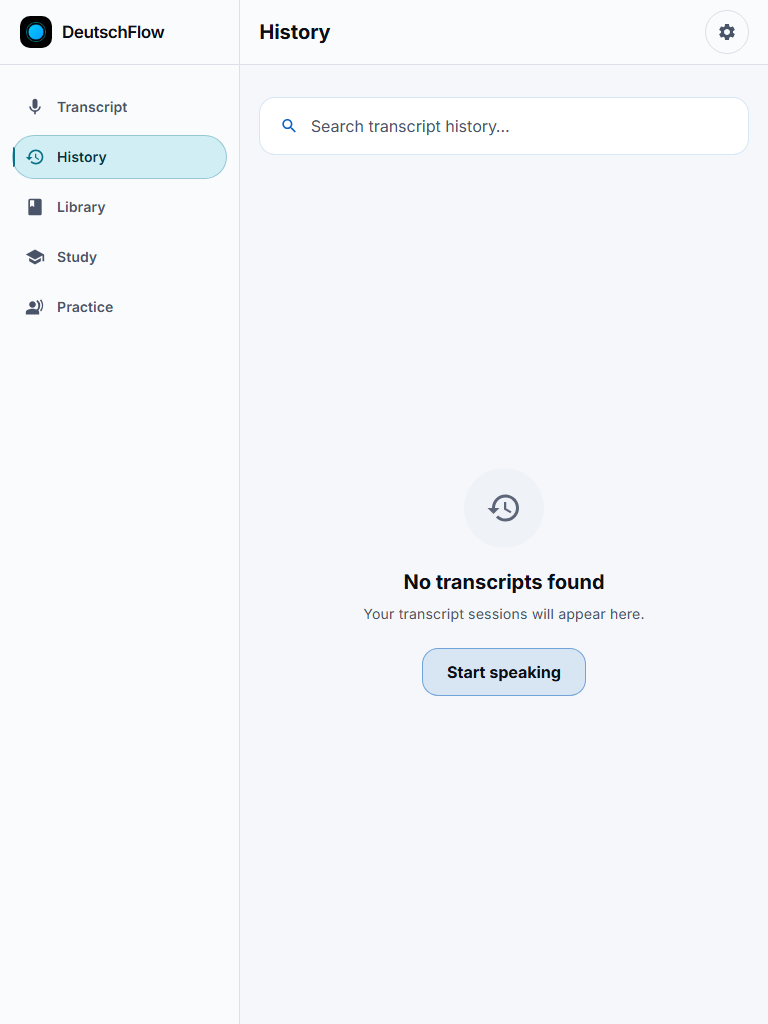
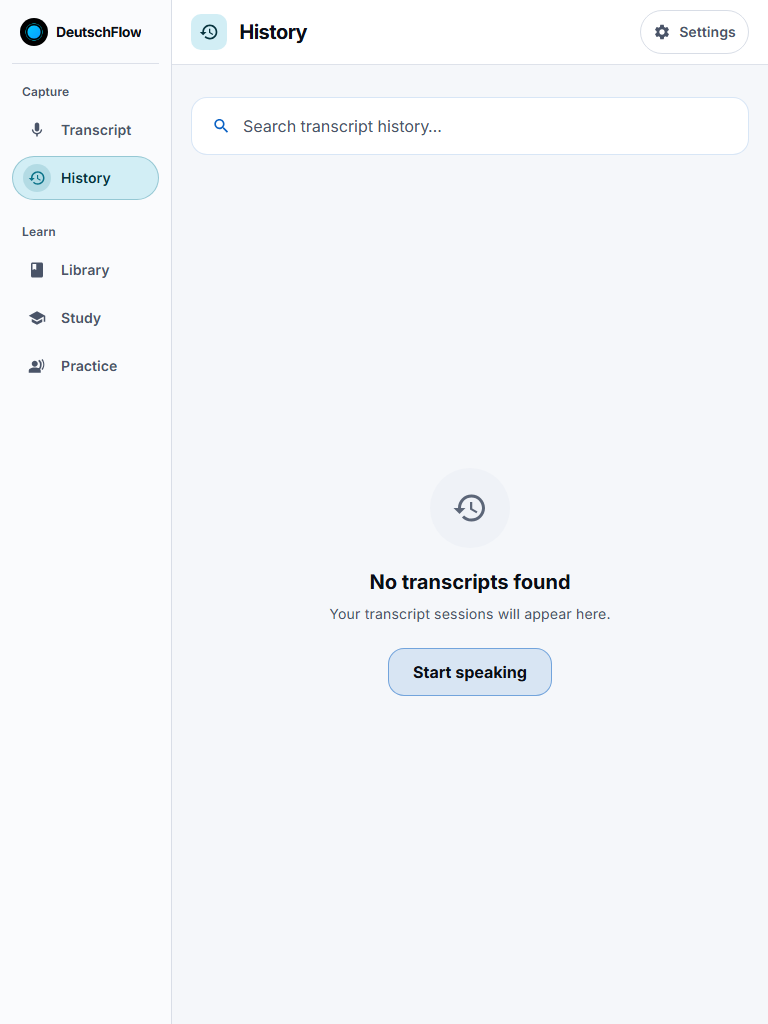
Refine the web sidebar and page header

diff --git a/web/src/components/layout/AppShell.tsx b/web/src/components/layout/AppShell.tsx
@@ -107,43 +107,6 @@ export function AppShell({ children }: { children: ReactNode }) {
           {t("db.upgradeBlocked")}
         </p>
       )}
-      {/* Top bar — full-width, like the Android bar: a transparent bar lets
-          content scroll straight through the title. */}
-      <header className="sticky top-0 z-30 border-b border-outline-variant/55 bg-surface-container-low pt-[env(safe-area-inset-top)]">
-        <div className="flex h-[var(--header-height)] items-center">
-          {showRail && (
-            <div className="flex h-full w-[var(--nav-rail-width)] shrink-0 items-center gap-2.5 border-r border-outline-variant/55 px-5">
-              <Image src="/icons/icon-192.png" alt="" width={32} height={32} className="rounded-[10px]" loading="eager" unoptimized />
-              <span className="text-title-medium tracking-tight">DeutschFlow</span>
-            </div>
-          )}
-          <div className="flex w-full items-center gap-[var(--space-3)] px-[var(--gutter)]">
-            {isOnSettings && (
-              <button
-                type="button"
-                onClick={goBack}
-                aria-label={t("action.back")}
-                className="flex size-11 shrink-0 items-center justify-center rounded-xl text-on-surface-variant transition-colors hover:bg-surface-container-high hover:text-on-surface focus-visible:outline-2 focus-visible:outline-azure-glow"
-              >
-                <ArrowBackIcon className="size-5" />
-              </button>
-            )}
-            <h1 className="min-w-0 flex-1 truncate text-left text-title-large">
-              <span>{title}</span>
-            </h1>
-            {!isOnSettings && (
-              <Link
-                href={SETTINGS_ROUTE}
-                aria-label={t("nav.settings")}
-                className="flex size-11 shrink-0 items-center justify-center rounded-xl border border-outline-variant/60 text-on-surface-variant transition-colors hover:bg-surface-container-high hover:text-on-surface focus-visible:outline-2 focus-visible:outline-azure-glow"
-              >
-                <SettingsIcon className="size-5" />
-              </Link>
-            )}
-          </div>
-        </div>
-      </header>
-
       {/* One row, held to the space the header leaves. An implicit grid row is
           `auto`, which grows to the content's full height however short the
           container is - so inside the fixed-height shell every page's own
@@ -155,49 +118,80 @@ export function AppShell({ children }: { children: ReactNode }) {
           showRail ? "grid-cols-[auto_minmax(0,1fr)]" : "grid-cols-1"
         }`}
       >
-        {/* Desktop rail — hugs the screen's left edge, like the Android
-            NavigationRail; the content column is centred in what remains. */}
         {showRail && (
-          <nav
-            aria-label={t("nav.primary")}
-            className="flex min-h-0 w-[var(--nav-rail-width)] shrink-0 flex-col gap-1.5 overflow-y-auto border-r border-outline-variant/55 bg-surface-container-low px-3 py-5"
-          >
-            {TABS.map((tab) => {
-              const selected = pathname === tab.route;
-              const label = t(tab.title);
-              return (
-                <Link
-                  key={tab.route}
-                  href={tab.route}
-                  aria-current={selected ? "page" : undefined}
-                  className={`relative flex min-h-11 w-full shrink-0 items-center gap-3 rounded-xl border px-3 text-left transition-colors duration-150 focus-visible:outline-2 focus-visible:outline-offset-2 focus-visible:outline-azure-glow ${
-                    selected
-                      ? "border-azure-glow/30 bg-secondary-container text-on-secondary-container"
-                      : "border-transparent text-on-surface-variant hover:bg-surface-container-high hover:text-on-surface"
-                  }`}
-                >
-                  {/* Not colour alone: the selected row carries a marker. */}
-                  <span
-                    aria-hidden="true"
-                    className={`absolute left-0 top-1/2 h-5 w-0.5 -translate-y-1/2 rounded-r bg-azure-glow transition-opacity duration-150 ${
-                      selected ? "opacity-100" : "opacity-0"
-                    }`}
-                  />
-                  <tab.icon
-                    className={`size-5 shrink-0 transition-colors duration-150 ${
-                      selected ? "text-azure-glow" : "text-current"
-                    }`}
-                  />
-                  <span className="min-w-0 truncate text-label-large">{label}</span>
-                </Link>
-              );
-            })}
-          </nav>
+          <aside className="flex min-h-0 w-[var(--nav-rail-width)] flex-col border-r border-outline-variant/60 bg-surface-container-low pt-[env(safe-area-inset-top)]">
+            <div className="mx-3 flex min-h-[var(--header-height)] shrink-0 items-center gap-2 border-b border-outline-variant/55 px-2 py-3 lg:mx-4 lg:min-h-19 lg:gap-3">
+              <Image src="/icons/icon-192.png" alt="" width={36} height={36} className="size-7 shrink-0 rounded-lg lg:size-9 lg:rounded-[10px]" loading="eager" unoptimized />
+              <span className="min-w-0 truncate text-label-large font-bold tracking-tight lg:text-title-medium">DeutschFlow</span>
+            </div>
+            <nav aria-label={t("nav.primary")} className="min-h-0 flex-1 space-y-5 overflow-y-auto px-3 py-5 lg:px-4">
+              {[
+                { label: t("nav.capture"), tabs: TABS.slice(0, 2) },
+                { label: t("nav.learn"), tabs: TABS.slice(2) },
+              ].map(({ label, tabs }) => (
+                <div key={label} role="group" aria-label={label} className="space-y-1">
+                  <p aria-hidden="true" className="px-2.5 pb-1 text-label-small font-semibold text-on-surface-variant">{label}</p>
+                  {tabs.map((tab) => {
+                    const selected = pathname === tab.route;
+                    return (
+                      <Link
+                        key={tab.route}
+                        href={tab.route}
+                        aria-current={selected ? "page" : undefined}
+                        className={`flex min-h-11 items-center gap-2.5 rounded-xl border px-2.5 py-1.5 transition-colors duration-150 focus-visible:outline-2 focus-visible:outline-azure-glow ${
+                          selected
+                            ? "border-azure-glow/30 bg-secondary-container font-bold text-on-secondary-container"
+                            : "border-transparent text-on-surface-variant hover:bg-surface-container-high hover:text-on-surface"
+                        }`}
+                      >
+                        <span className={`grid size-7 shrink-0 place-items-center rounded-lg ${selected ? "bg-azure-glow/15 text-azure-glow" : ""}`}>
+                          <tab.icon className="size-[18px]" />
+                        </span>
+                        <span className="min-w-0 break-words text-label-large">{t(tab.title)}</span>
+                      </Link>
+                    );
+                  })}
+                </div>
+              ))}
+            </nav>
+          </aside>
         )}
 
-        {/* The content column — left-aligned to match the title; the max width
-            the cards may use. */}
         <div className="flex w-full min-w-0 min-h-0 flex-1 flex-col">
+          <header className="z-30 shrink-0 border-b border-outline-variant/55 bg-surface pt-[env(safe-area-inset-top)]">
+            <div className="flex min-h-[var(--header-height)] items-center gap-3 px-[var(--gutter)] py-2 lg:min-h-19">
+              {isOnSettings ? (
+                <button
+                  type="button"
+                  onClick={goBack}
+                  aria-label={t("action.back")}
+                  className="grid size-11 shrink-0 place-items-center rounded-xl border border-outline-variant/65 text-on-surface-variant transition-colors hover:bg-surface-container-high hover:text-on-surface focus-visible:outline-2 focus-visible:outline-azure-glow"
+                >
+                  <ArrowBackIcon className="size-5" />
+                </button>
+              ) : currentTab && (
+                <div className="grid size-9 shrink-0 place-items-center rounded-[10px] bg-secondary-container text-on-secondary-container lg:size-11">
+                  <currentTab.icon className="size-5" />
+                </div>
+              )}
+              <div className="min-w-0 flex-1">
+                <h1 className="break-words text-title-large tracking-tight lg:text-headline-small">{title}</h1>
+                {currentTab && (
+                  <p className="hidden text-body-medium text-on-surface-variant lg:block">{t(currentTab.description)}</p>
+                )}
+              </div>
+              {!isOnSettings && (
+                <Link
+                  href={SETTINGS_ROUTE}
+                  aria-label={t("nav.settings")}
+                  className="inline-flex min-h-11 min-w-11 shrink-0 items-center justify-center gap-2 rounded-xl border border-outline-variant/65 px-2.5 text-label-large text-on-surface-variant transition-colors duration-150 hover:bg-surface-container-high hover:text-on-surface focus-visible:outline-2 focus-visible:outline-azure-glow sm:px-3"
+                >
+                  <SettingsIcon className="size-[18px]" />
+                  <span className="hidden sm:inline">{t("nav.settings")}</span>
+                </Link>
+              )}
+            </div>
+          </header>
           <main
             id="main"
             tabIndex={-1}

diff --git a/web/src/lib/i18n.ts b/web/src/lib/i18n.ts
@@ -18,6 +18,13 @@ export const STRINGS = {
     "nav.study": "Study",
     "nav.practice": "Practice",
     "nav.settings": "Settings",
+    "nav.capture": "Capture",
+    "nav.learn": "Learn",
+    "nav.transcriptDescription": "Translate a sentence and explore its grammar.",
+    "nav.historyDescription": "Find and revisit your past transcripts.",
+    "nav.libraryDescription": "Organize the words you want to remember.",
+    "nav.studyDescription": "Review flashcards and track your progress.",
+    "nav.practiceDescription": "Work on pronunciation or try a German conversation.",
     "action.skipToContent": "Skip to content",
     "action.back": "Back",
 
@@ -366,6 +373,13 @@ export const STRINGS = {
     "nav.study": "Lernen",
     "nav.practice": "Üben",
     "nav.settings": "Einstellungen",
+    "nav.capture": "Aufnehmen",
+    "nav.learn": "Lernen und üben",
+    "nav.transcriptDescription": "Übersetze einen Satz und entdecke seine Grammatik.",
+    "nav.historyDescription": "Finde deine bisherigen Transkripte und lies sie nach.",
+    "nav.libraryDescription": "Sammle die Wörter, die du dir merken möchtest.",
+    "nav.studyDescription": "Wiederhole Karteikarten und verfolge deinen Fortschritt.",
+    "nav.practiceDescription": "Übe die Aussprache oder führe ein Gespräch auf Deutsch.",
     "action.skipToContent": "Zum Inhalt springen",
     "action.back": "Zurück",
 

diff --git a/web/src/lib/navigation/tabs.ts b/web/src/lib/navigation/tabs.ts
@@ -22,15 +22,16 @@ import type { TKey } from "@/lib/i18n";
 export interface TabConfig {
   route: string;
   title: TKey;
+  description: TKey;
   icon: ComponentType<{ className?: string }>;
 }
 
 export const TABS: TabConfig[] = [
-  { route: "/transcript", title: "nav.transcript", icon: MicIcon },
-  { route: "/history", title: "nav.history", icon: HistoryIcon },
-  { route: "/vocabulary", title: "nav.library", icon: BookIcon },
-  { route: "/study", title: "nav.study", icon: SchoolIcon },
-  { route: "/practice", title: "nav.practice", icon: RecordVoiceOverIcon },
+  { route: "/transcript", title: "nav.transcript", description: "nav.transcriptDescription", icon: MicIcon },
+  { route: "/history", title: "nav.history", description: "nav.historyDescription", icon: HistoryIcon },
+  { route: "/vocabulary", title: "nav.library", description: "nav.libraryDescription", icon: BookIcon },
+  { route: "/study", title: "nav.study", description: "nav.studyDescription", icon: SchoolIcon },
+  { route: "/practice", title: "nav.practice", description: "nav.practiceDescription", icon: RecordVoiceOverIcon },
 ];
 
 export const SETTINGS_ROUTE = "/settings";

diff --git a/web/src/app/globals.css b/web/src/app/globals.css
@@ -105,10 +105,8 @@
   --container-workspace: 64rem; /* 1024px — transcript, study, practice */
   --container-wide: 90rem;      /* 1440px — history, library, split views */
 
-  /* ---- Shell dimensions --------------------------------------------------
-     The rail was w-32 (128px) with labels under icons; 240px lets the label
-     sit beside the icon, which is the shape a navigation column wants. */
-  --nav-rail-width: 15rem;      /* 240px */
+  /* ---- Shell dimensions -------------------------------------------------- */
+  --nav-rail-width: clamp(10.75rem, 17vw, 14rem);
   --nav-bar-height: 4rem;       /* 64px — mobile bottom bar */
   --header-height: 4rem;
 
